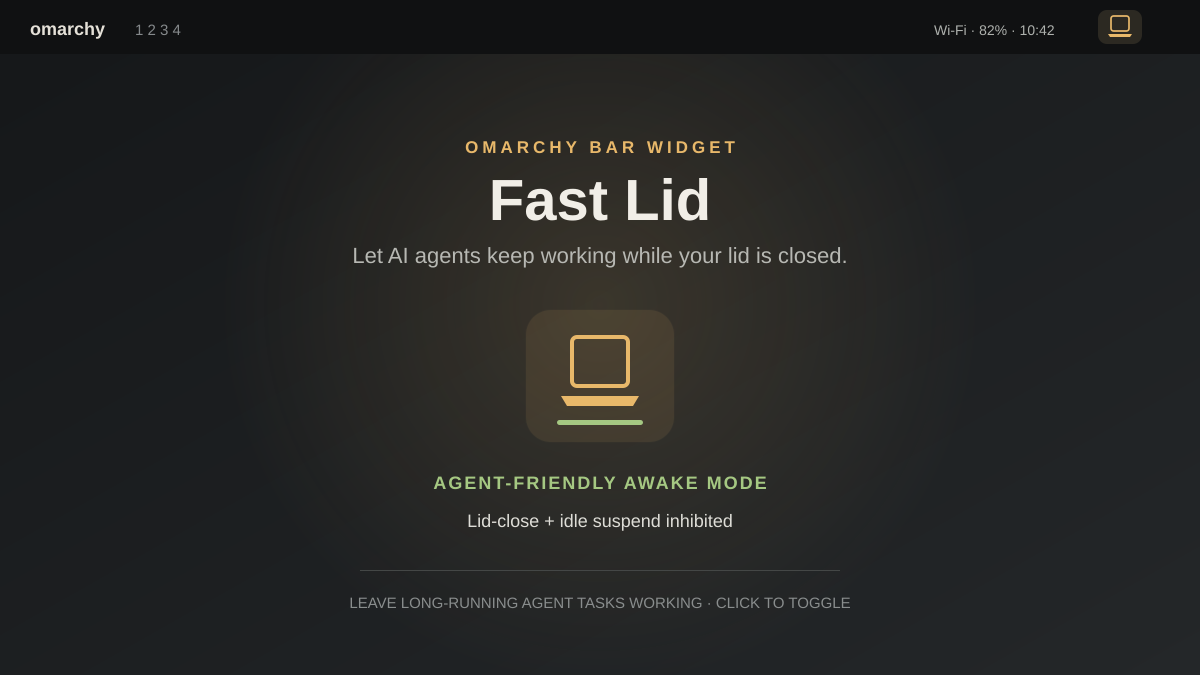
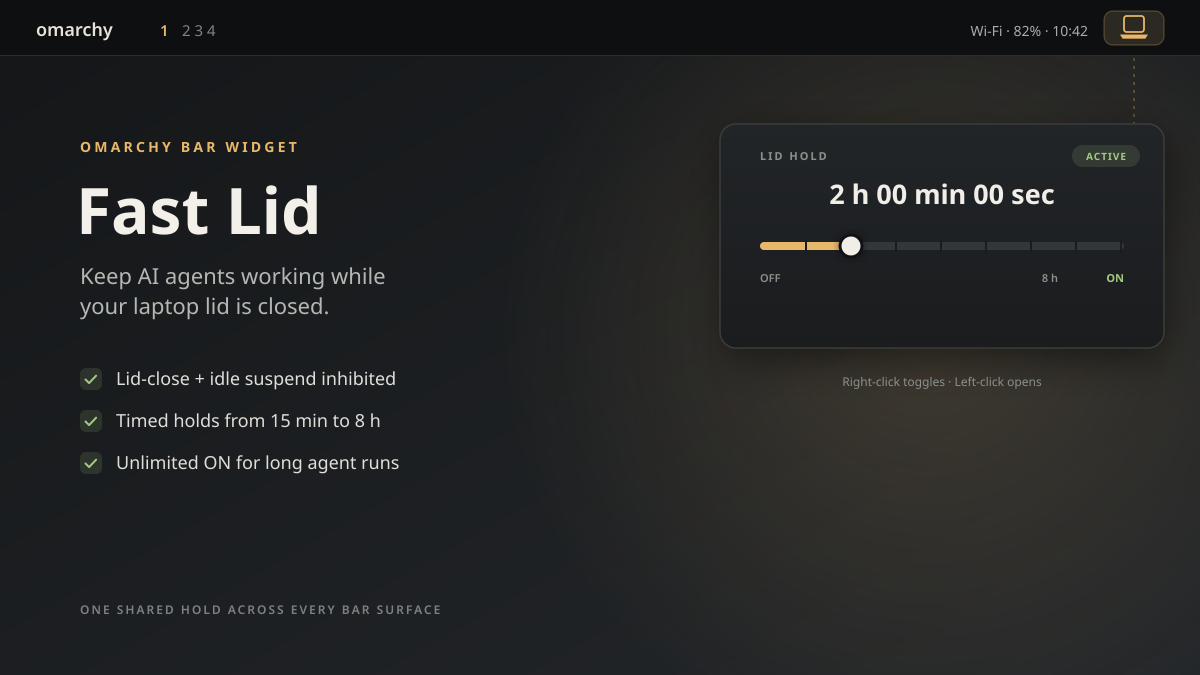
feat: close panel on pointer leave
Refresh the marketplace preview and add a guide image showing the timed
and off panel states.

diff --git a/BarWidget.qml b/BarWidget.qml
@@ -18,6 +18,22 @@ BarWidget {
   readonly property color ink: bar ? bar.barForeground : Commons.Color.foreground
 
   property bool panelOpen: false
+  readonly property var hoverSlot: {
+    var item = root.parent
+    while (item) {
+      if ("activeItem" in item && item.activeItem === root && "hovered" in item)
+        return item
+      item = item.parent
+    }
+    return null
+  }
+
+  function updateHoverClose() {
+    if (!panelOpen || (hoverSlot ? hoverSlot.hovered : button.tooltipHovered) || panel.containsMouse)
+      hoverCloseTimer.stop()
+    else
+      hoverCloseTimer.restart()
+  }
 
   function durationLabel(step) {
     if (step <= 0) return "OFF"
@@ -36,7 +52,20 @@ BarWidget {
   }
 
   function close() {
+    hoverCloseTimer.stop()
     panelOpen = false
+  }
+
+  Timer {
+    id: hoverCloseTimer
+    interval: 250
+    onTriggered: root.close()
+  }
+
+  Connections {
+    target: root.hoverSlot
+    ignoreUnknownSignals: true
+    function onHoveredChanged() { root.updateHoverClose() }
   }
 
   Connections {
@@ -55,6 +84,7 @@ BarWidget {
     id: button
     anchors.fill: parent
     bar: root.bar
+    onTooltipHoveredChanged: if (!root.hoverSlot) root.updateHoverClose()
     iconComponent: Component {
       Item {
         width: 16
@@ -109,10 +139,12 @@ BarWidget {
   }
 
   PopupCard {
+    id: panel
     anchorItem: root
     bar: root.bar
     owner: root
     open: root.panelOpen
+    onContainsMouseChanged: root.updateHoverClose()
     contentWidth: fittedContentWidth(Style.space(280))
     contentHeight: fittedContentHeight(content.implicitHeight)
 

diff --git a/README.md b/README.md
@@ -18,7 +18,8 @@ left-click it to open the slider without toggling. The left end turns Fast Lid
 off; the other positions select 15 minutes to 8 hours in 15-minute increments,
 and the far right shows ON and keeps it on indefinitely. The hold ends when the chosen time
 expires or the plugin service stops. A solid laptop means the hold is on; a
-slashed laptop means it is off. The hold is shared across bar surfaces. Only
+slashed laptop means it is off. The hold is shared across bar surfaces. Move the
+pointer away from the icon and panel, or click outside, to close the panel. Only
 failures send a desktop notification.
 
 Fast Lid inhibits lid-close and idle suspend only. Explicit suspend, shutdown,

diff --git a/docs/GUIDE.md b/docs/GUIDE.md
@@ -25,9 +25,12 @@ configuration.
   steps, or the far right (ON) for an unlimited hold. Selecting a duration starts a
   fresh timer, and the hold stops when that timer expires. The panel displays
   the remaining time in hours, minutes, and seconds.
-- Click outside the panel to close it. Only failures send an Omarchy notification.
+- Move the pointer away from the icon and panel, or click outside, to close it.
+  Only failures send an Omarchy notification.
 - The `clouddown.fast-lid` shell toggle can also be used from Omarchy's shell
   interface.
+
+![Fast Lid panel: a timed hold and the off state](panel.png)
 
 ## Safety
 
